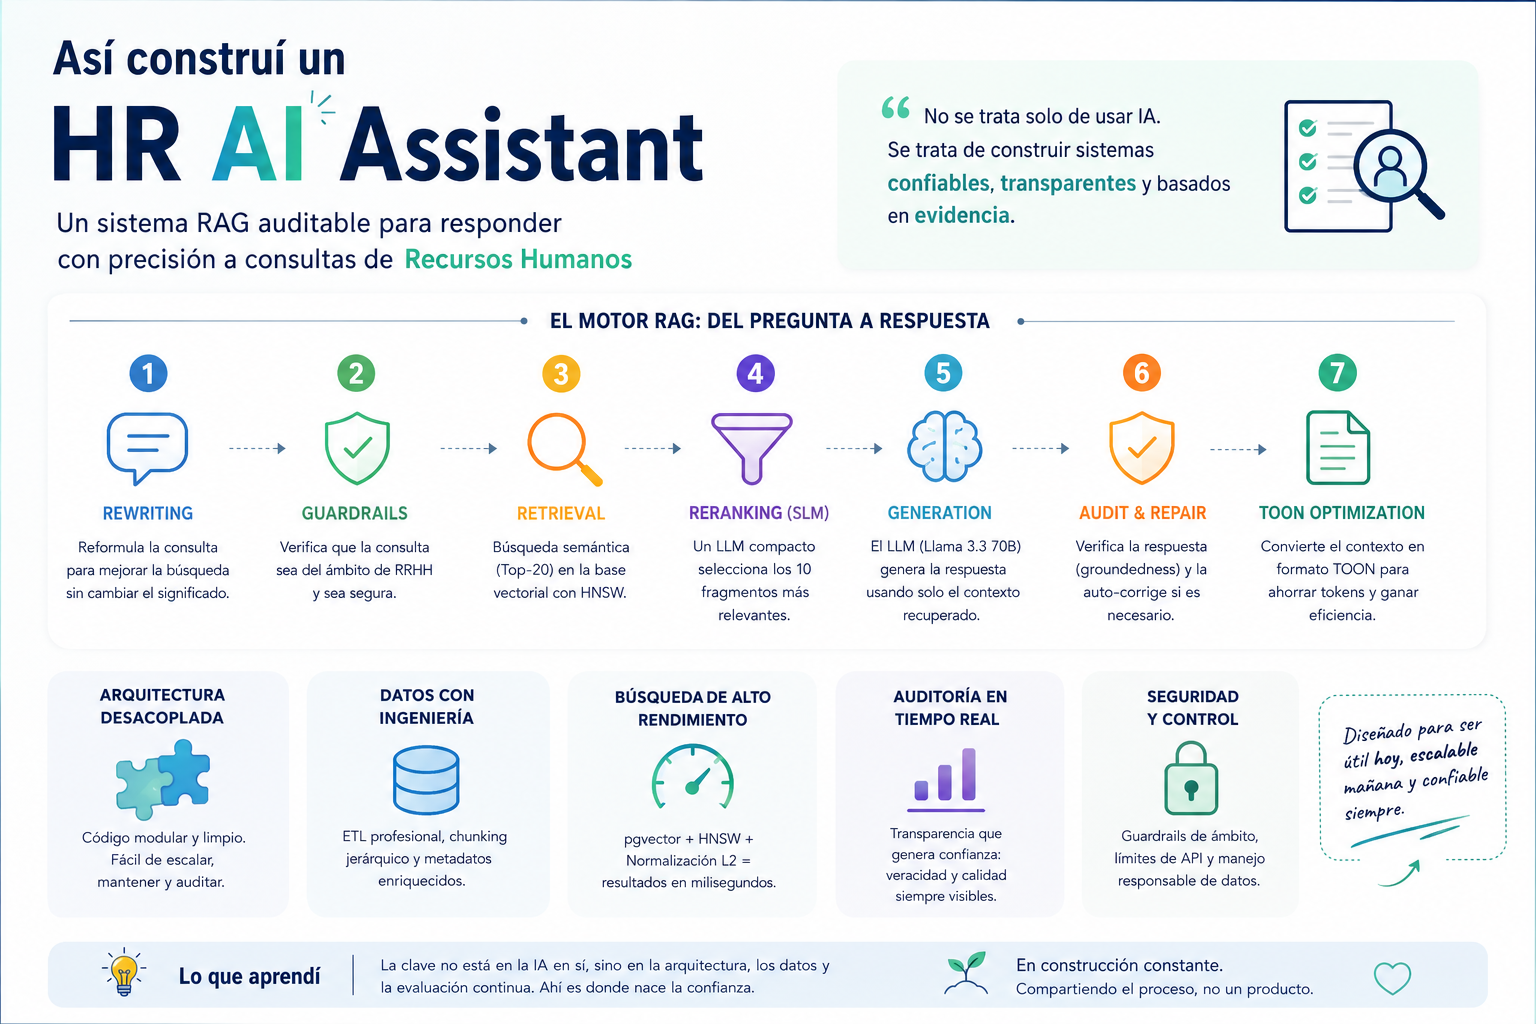
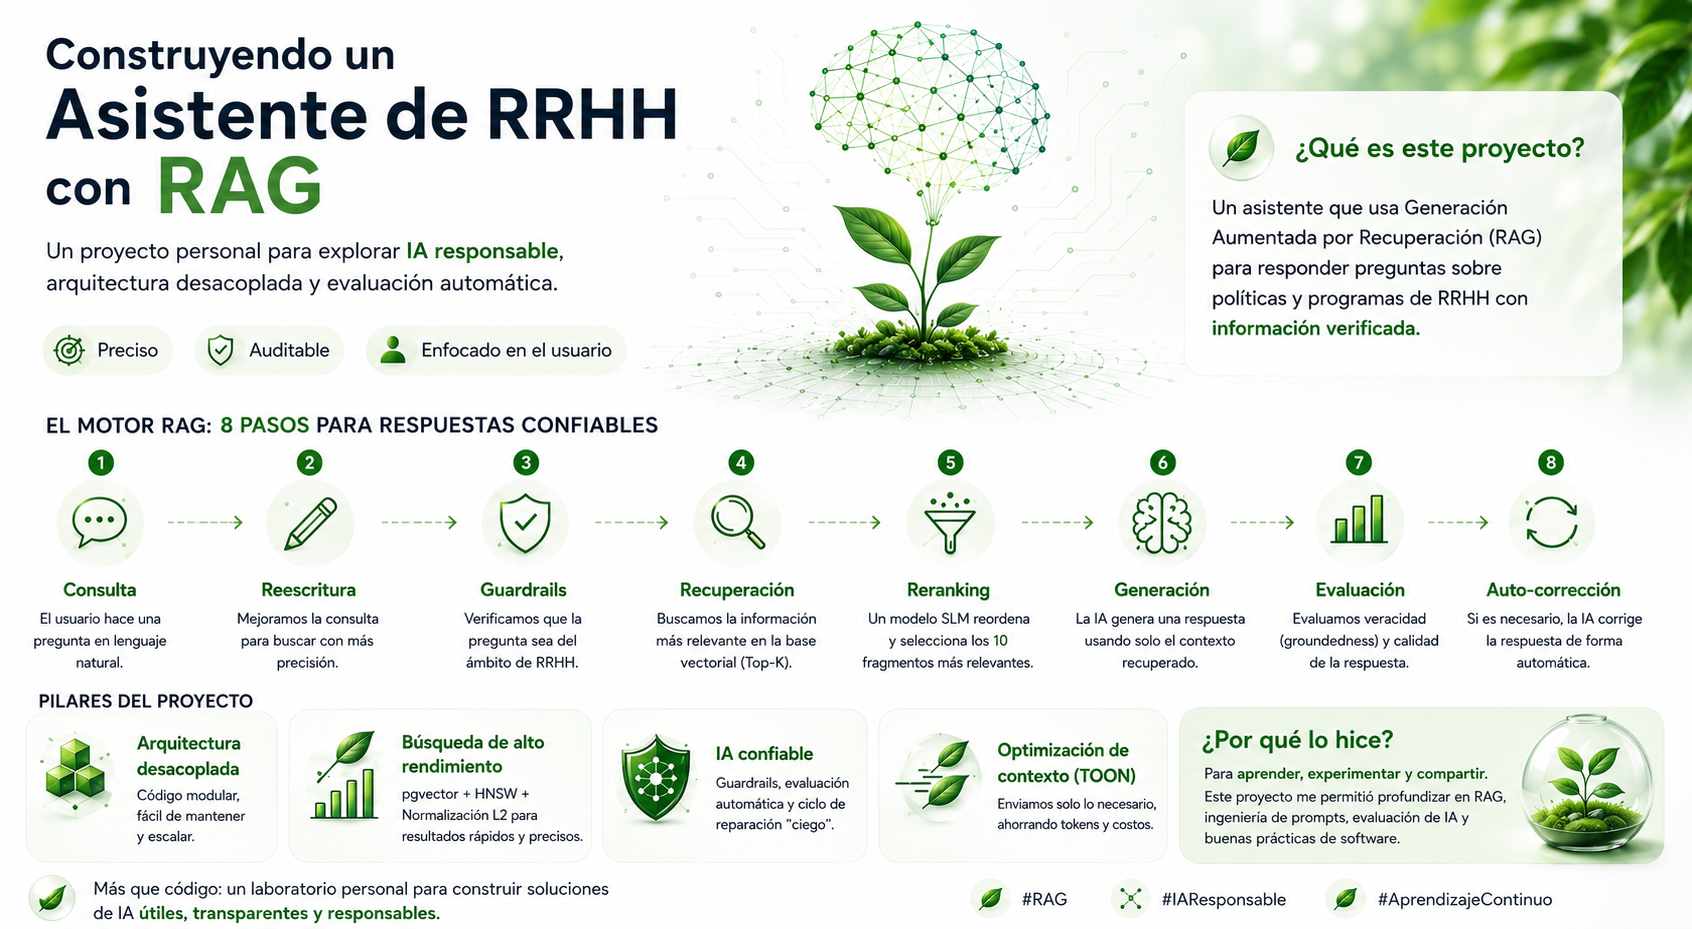
feat: standardize on Gemini 2.5 and refine RAG architecture

Changed region(s): [[0.0, 0.0, 1.0, 0.9989], [0.0, 0.6243, 0.2188, 0.9053], [0.0, 0.9365, 0.5312, 1.0]]

diff --git a/core/retriever.py b/core/retriever.py
@@ -5,40 +5,43 @@ class HRRetriever:
     def __init__(self):
         self.embed_manager = EmbeddingManager()
 
-    def get_relevant_context(self, query_text: str, threshold: float = 0.20, top_k: int = 20):
+    def get_relevant_context(self, query_text: str, threshold: float = 0.25, top_k: int = 20):
         """
-        Busca contexto en la base de datos usando similitud vectorial.
-        Devuelve una lista de fragmentos (chunks) para ser procesados por el Reranker.
+        Busca contexto en la base de datos usando similitud vectorial con reintentos para resiliencia.
         """
         query_embedding = self.embed_manager.generate_single_embedding(query_text)
-        conn = db_manager.get_connection()
-        chunks = []
-        sources = []
+        attempts = 2
         
-        try:
-            cur = conn.cursor()
-            sql = """
-                SELECT content, source, (embedding <#> %s::vector) * -1 AS similarity
-                FROM documents 
-                ORDER BY embedding <#> %s::vector
-                LIMIT %s;
-            """
-            cur.execute(sql, (query_embedding, query_embedding, top_k))
-            results = cur.fetchall()
+        for attempt in range(attempts):
+            conn = db_manager.get_connection()
+            chunks = []
+            sources = []
+            try:
+                cur = conn.cursor()
+                sql = """
+                    SELECT content, source, (embedding <#> %s::vector) * -1 AS similarity
+                    FROM documents 
+                    ORDER BY embedding <#> %s::vector
+                    LIMIT %s;
+                """
+                cur.execute(sql, (query_embedding, query_embedding, top_k))
+                results = cur.fetchall()
+                
+                for content, source, similarity in results:
+                    if similarity >= threshold:
+                        chunks.append(content)
+                        sources.append(source)
+                
+                cur.close()
+                return chunks, sources # Éxito
+            except Exception as e:
+                print(f"⚠ Intento {attempt+1} fallido: {e}")
+                if attempt == attempts - 1:
+                    print(f"❌ Error final durante el retrieval: {e}")
+            finally:
+                db_manager.release_connection(conn)
             
-            for content, source, similarity in results:
-                if similarity >= threshold:
-                    # Guardamos el chunk con su metadata enriquecida
-                    chunks.append(content)
-                    sources.append(source)
-            
-            cur.close()
-        except Exception as e:
-            print(f"❌ Error durante el retrieval: {e}")
-        finally:
-            db_manager.release_connection(conn)
-            
-        return chunks, sources
+        return [], []
 
 # Instancia única del recuperador
 retriever = HRRetriever()

diff --git a/core/llm.py b/core/llm.py
@@ -10,8 +10,8 @@ class LLMManager:
             raise ValueError("GOOGLE_API_KEY no configurada.")
         genai.configure(api_key=settings.GOOGLE_API_KEY)
         # Cargamos ambos modelos para usarlos según la complejidad
-        self.pro_model = genai.GenerativeModel('models/gemini-2.5-flash') # Default Pro
-        self.flash_model = genai.GenerativeModel('models/gemini-2.5-flash') # Default Flash
+        self.pro_model = genai.GenerativeModel(f'models/{settings.PRO_MODEL}') # Default Pro
+        self.flash_model = genai.GenerativeModel(f'models/{settings.FLASH_MODEL}') # Default Flash
 
     def _sync_call(self, prompt: str, temperature: float, use_pro: bool):
         model = self.pro_model if use_pro else self.flash_model

diff --git a/config/settings.py b/config/settings.py
@@ -10,14 +10,14 @@ class Settings(BaseSettings):
     DATABASE_URL: str
 
     # AI Models
-    GROQ_API_KEY: str = ""
     GOOGLE_API_KEY: str = os.getenv("GOOGLE_API_KEY", "")
     
-    # Motor de IA (Preferimos Gemini ahora)
+    # Motor de IA principal
     LLM_ENGINE: str = "google" 
     
-    GROQ_MODEL: str = "llama-3.3-70b-versatile"
-    SLM_MODEL: str = "llama-3.1-8b-instant"
+    # Modelos de Gemini (Tiered Architecture)
+    PRO_MODEL: str = "gemini-2.5-pro"
+    FLASH_MODEL: str = "gemini-2.5-flash"
     
     EMBEDDING_MODEL: str = "sentence-transformers/paraphrase-multilingual-MiniLM-L12-v2"
 

diff --git a/README.md b/README.md
@@ -15,28 +15,28 @@
 
 ### 1. Ingesta y Estrategia de Datos (ETL)
 *   **Hierarchical Markdown Extraction:** Transformamos PDFs en Markdown para inyectar jerarquía estructural. Usamos `MarkdownHeaderTextSplitter` para mantener la relación entre títulos y contenido.
-*   **Chunking Metodológico:** Tamaño de fragmento de **1500 caracteres** para preservar la integridad de las reglas de RRHH, con enriquecimiento de metadatos en el prefijo.
+*   **Chunking Metodológico:** Tamaño de fragmento de **600 caracteres** para preservar la integridad y densidad semántica de las reglas de RRHH, con enriquecimiento de metadatos en el prefijo.
 
 ### 2. Capa de Datos e Infraestructura
 *   **Connection Pooling:** Gestión profesional de conexiones a Neon mediante `psycopg2.pool.ThreadedConnectionPool` para alta concurrencia y baja latencia.
 *   **Normalización L2:** Pre-procesamiento de vectores para optimizar la búsqueda semántica.
-*   **HNSW Index:** Indexación vectorial ultra rápida usando Producto Punto (`vector_ip_ops`) en Neon.
+*   **HNSW Index:** Indexación vectorial ultra rápida usando Producto Punto (`vector_ip_ops`) en Neon (equivalente a Similitud Coseno gracias a la normalización). Umbral de similitud estricto de **0.25**.
 
 ### 3. El Motor RAG (Orquestación)
 El sistema utiliza un **Orquestador Centralizado** que desacopla la lógica de negocio del framework web:
-1.  **Rewriting:** Reformulación neutral de consultas para búsqueda vectorial.
+1.  **Rewriting:** Reformulación neutral de consultas para búsqueda vectorial usando modelos ultra-rápidos (Gemini 2.5 Flash).
 2.  **Guardrails:** Validación de ámbito (RRHH-only) y seguridad.
 3.  **Retrieval:** Recuperación de alta fidelidad con búsqueda inicial Top-20.
-4.  **Reranking:** Uso de **SLM (Llama 8B)** para seleccionar los 10 mejores fragmentos.
-5.  **Generation:** Motor de IA (Groq Llama 3.3 70B) con prompts externalizados.
-6.  **Audit & Repair:** Ciclo automático de veracidad y auto-corrección sin meta-texto.
-7.  **TOON Optimization:** Serialización compacta del contexto para ahorro de tokens.
+4.  **Reranking:** Uso de **SLM** para seleccionar los 10 mejores fragmentos garantizando precisión extrema.
+5.  **Generation:** Motor de IA principal usando la capacidad de razonamiento de **Gemini 2.5 Pro** con prompts externalizados.
+6.  **Audit & Repair (Self-Healing):** Ciclo automático de verificación de veracidad (Groundedness) y auto-corrección sin meta-texto.
+7.  **TOON Optimization:** Serialización compacta del contexto para ahorro masivo de tokens.
 
 ---
 
 ## 🛠 Tech Stack & Herramientas
 
-*   **LLM Engine:** Groq (Llama 3.3 70B / Llama 3.1 8B).
+*   **LLM Engine:** Google Gemini (2.5 Pro para razonamiento, 2.5 Flash para operaciones rápidas).
 *   **Vector Database:** Neon (PostgreSQL + pgvector + HNSW).
 *   **API Framework:** FastAPI (Estructura de servicios desacoplados).
 *   **UI Framework:** Streamlit (Panel de control con métricas de auditoría).
@@ -55,7 +55,7 @@ El sistema utiliza un **Orquestador Centralizado** que desacopla la lógica de n
 │   ├── orchestrator.py # RAG Pipeline Orchestrator
 │   ├── retriever.py    # Vector Search & SQL logic
 │   ├── reranker.py     # SLM Reranking logic
-│   ├── llm.py          # LLM Interface
+│   ├── llm.py          # LLM Interface (Tiered Models)
 │   ├── guardrails.py   # Safety & Scope Manager
 │   └── repair.py       # Self-healing logic
 ├── prompts/            # Centralized Prompts (.txt files)
@@ -75,7 +75,7 @@ El asistente incluye un panel lateral que muestra en tiempo real:
 ---
 
 ## 💡 Nota Metodológica
-Este proyecto ha sido refactorizado siguiendo estándares de ingeniería de software de alto nivel: **Separación de Responsabilidades (SoC)**, **Patrones de Diseño (Singleton, Repository)** y **Optimización de Recursos (Connection Pooling)**. Es una solución diseñada para ser escalable, transparente y fácil de mantener.
+Este proyecto ha sido refactorizado siguiendo estándares de ingeniería de software de alto nivel: **Separación de Responsabilidades (SoC)**, **Patrones de Diseño (Singleton, Repository)**, **Optimización de Recursos (Connection Pooling)**, y un **Motor RAG Resiliente (Auto-Repair)**. Es una solución diseñada para ser escalable, transparente y lista para producción.
 
 ---
 *Desarrollado como una solución de IA confiable, transparente y auditable para entornos corporativos de alta demanda.*

diff --git a/ARCHITECTURAL_NOTES.md b/ARCHITECTURAL_NOTES.md
@@ -38,6 +38,7 @@ Hemos evolucionado de un script monolítico a una estructura de servicios especi
 - **Toggles:** Interruptores en `.env` para desactivar módulos costosos durante el desarrollo.
 
 ## 8. Aumentación y Generación (LLM)
+- **Arquitectura por Tiers (Gemini):** El sistema utiliza **Gemini 2.5 Flash** para tareas rápidas y de bajo costo (como reformulación de consultas) y **Gemini 2.5 Pro** para las tareas complejas de razonamiento, generación final y evaluación de veracidad.
 - **Aumentación:** Inyección de hasta 10 fragmentos de contexto enriquecido en formato TOON.
 - **Temperatura 0.0:** Configuramos el motor de IA con temperatura cero para garantizar respuestas deterministas y evitar alucinaciones creativas.
 
